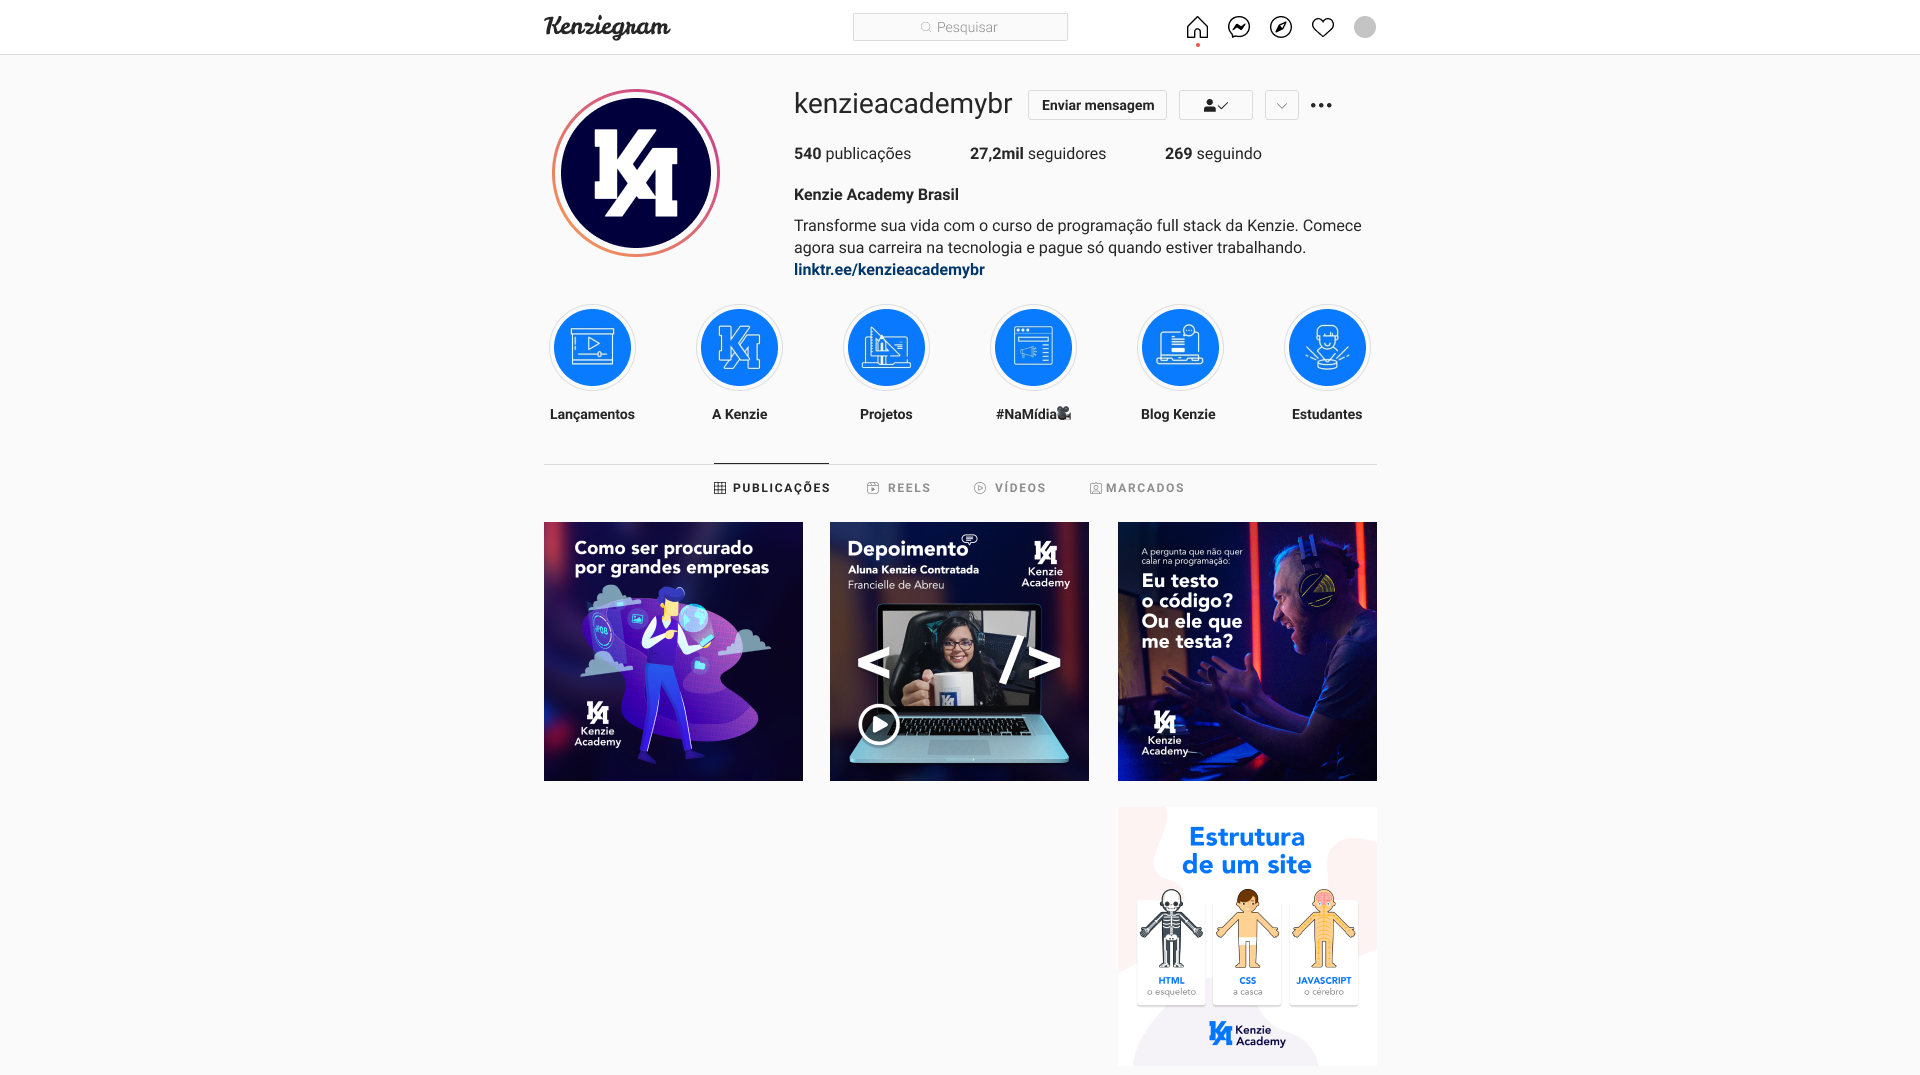
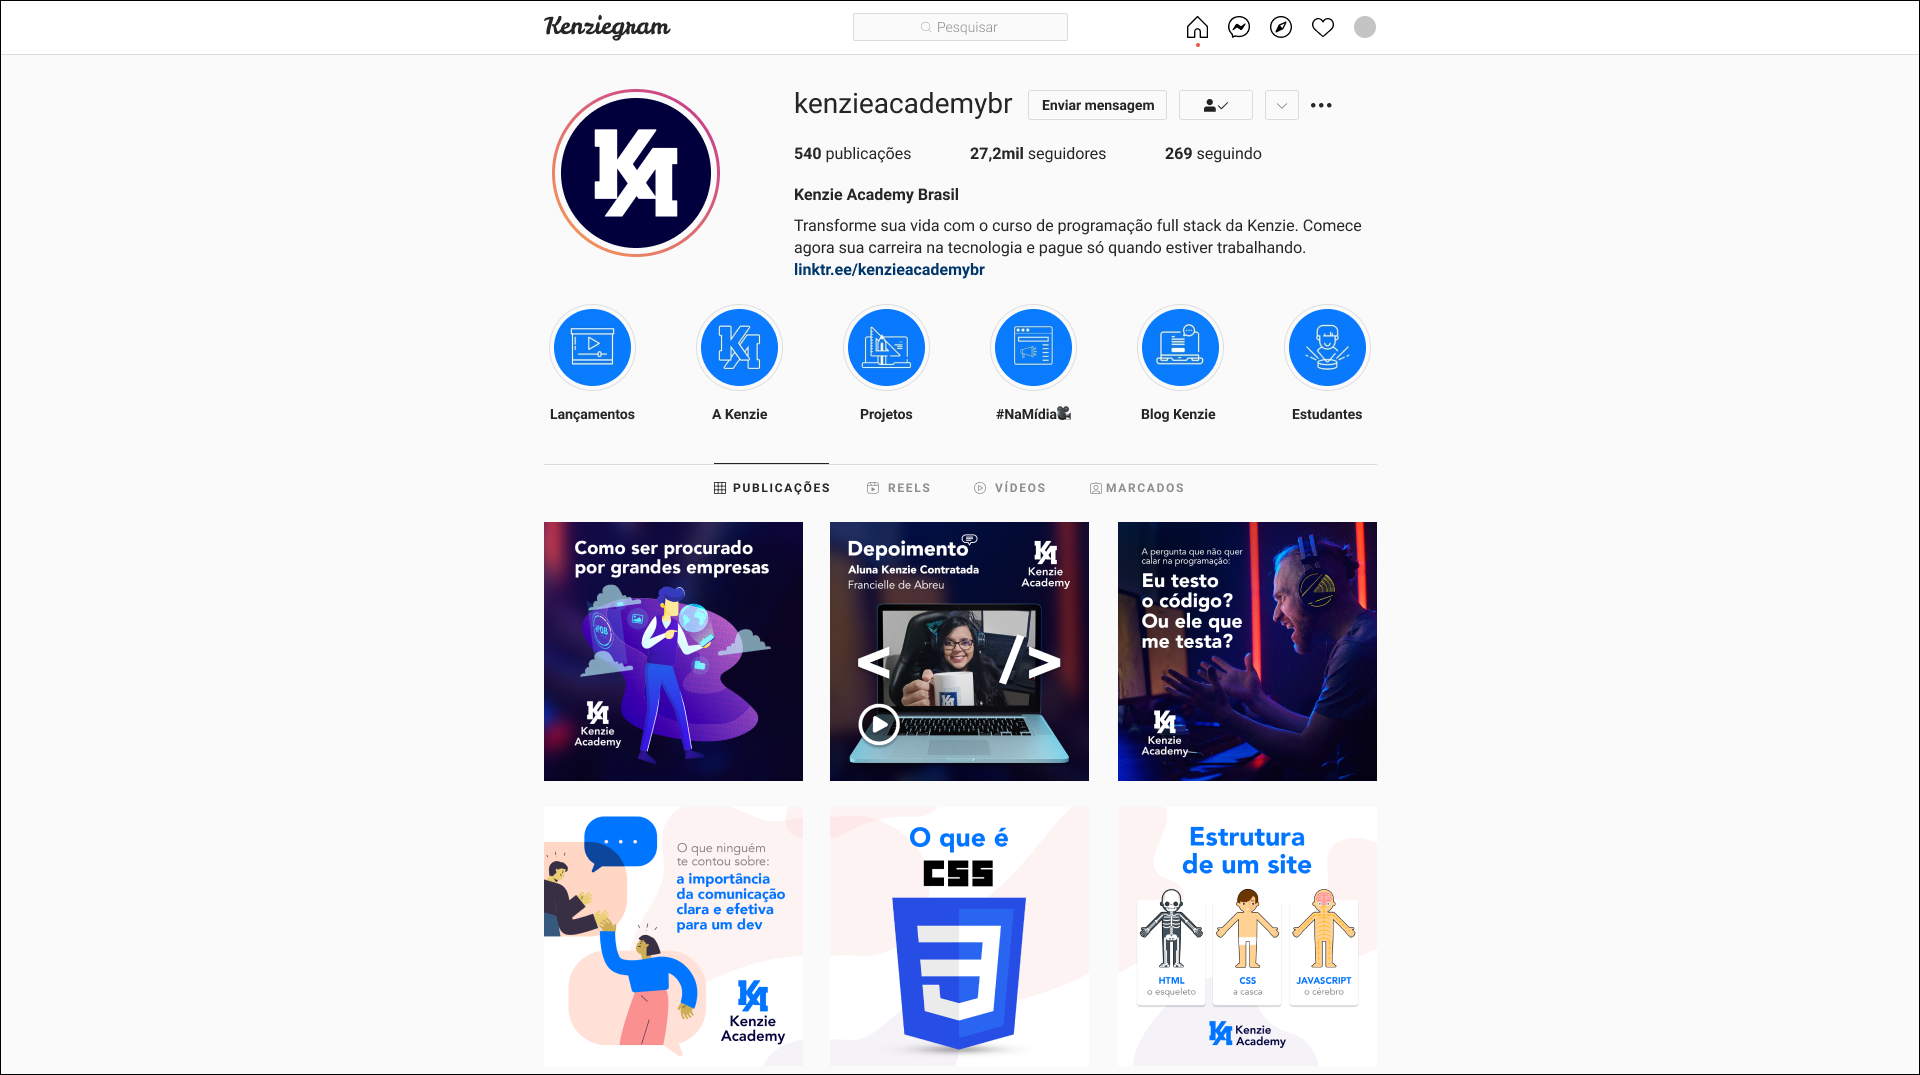
adicionando layout

Changed region(s): [[0.2812, 0.7367, 0.4062, 0.9823], [0.4688, 0.7674, 0.5312, 0.9823]]

diff --git a/README.md b/README.md
@@ -6,4 +6,8 @@ Repositório criado para o projeto desenvolvido durante o evento Projeto Dev.
 
 Para baixar os códigos na sua máquina, clique no botão verde escrito "Code", e em seguida selecione a opção "Download ZIP". Depois, você só precisa extrair o projeto em sua máquina e abrí-lo no VS Code, ou qualquer outro editor de sua preferência.
 
+## Layout
+
+- [Kenziegram](./assets/img/layout.png)
+
 Evento realizado nos dias 02 a 05 de Agosto de 2021.
